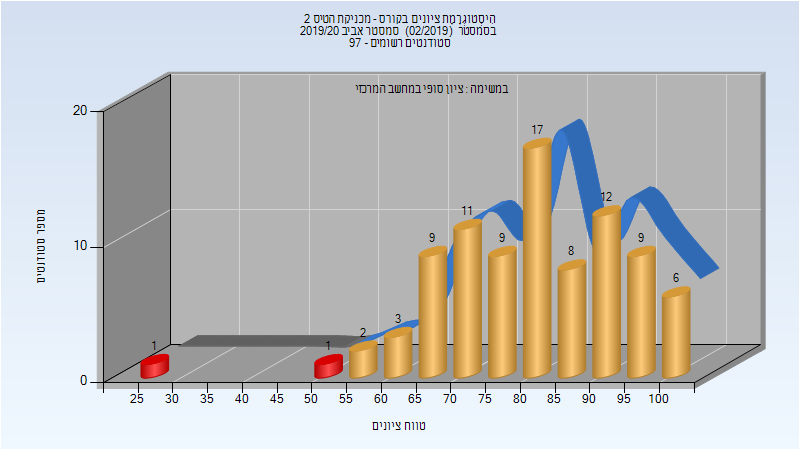
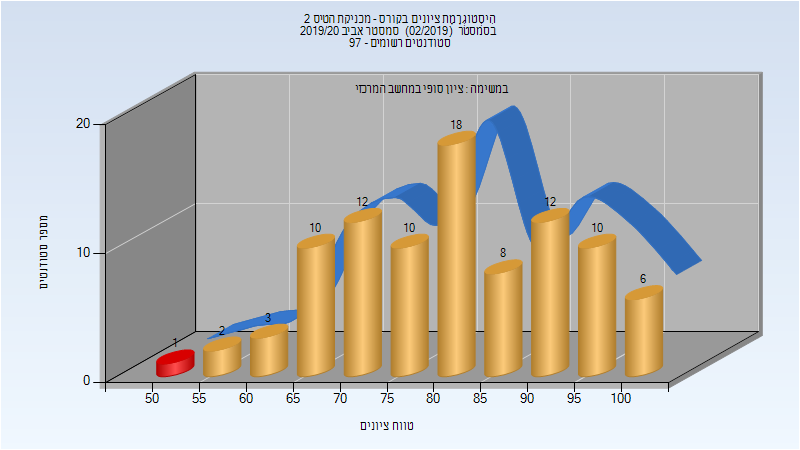
Deploy michael-maltsev/technion-histograms to github.com/michael-maltsev/technion-histograms.git:gh-pages

diff --git a/324955/index.html b/324955/index.html
@@ -397,7 +397,7 @@
 <td>מרצה - אחראי מקצוע</td>
 </tr>
 <tr>
-<td>איסמן ליסה</td>
+<td>בורנשטיין יעל</td>
 <td>סגל מנהלי - עם הרשאות מרצה אחראי</td>
 </tr>
 <tr>
@@ -405,11 +405,11 @@
 <td>סגל מנהלי - עם הרשאות מרצה אחראי</td>
 </tr>
 <tr>
-<td>בן ענת רוחמה</td>
+<td>איסמן ליסה</td>
 <td>סגל מנהלי - עם הרשאות מרצה אחראי</td>
 </tr>
 <tr>
-<td>בורנשטיין יעל</td>
+<td>בן ענת רוחמה</td>
 <td>סגל מנהלי - עם הרשאות מרצה אחראי</td>
 </tr>
 </tbody>

diff --git a/046241/index.html b/046241/index.html
@@ -40,5 +40,31 @@
 </tr>
 </tbody>
 </table>
+<h3>סופי</h3>
+<p><img src="201902/Finals.png" alt="201902 Finals" /></p>
+<table>
+<thead>
+<tr>
+<th>סטודנטים</th>
+<th>עברו/נכשלו</th>
+<th>אחוז עוברים</th>
+<th>ציון מינימלי</th>
+<th>ציון מקסימלי</th>
+<th>ממוצע</th>
+<th>חציון</th>
+</tr>
+</thead>
+<tbody>
+<tr>
+<td>10</td>
+<td>10/0</td>
+<td>100</td>
+<td>72</td>
+<td>99</td>
+<td>86.3</td>
+<td>84.5</td>
+</tr>
+</tbody>
+</table>
   </body>
 </html>

diff --git a/084154/index.html b/084154/index.html
@@ -398,15 +398,7 @@
 <td>מרצה - אחראי מקצוע</td>
 </tr>
 <tr>
-<td>קליין גריגורי</td>
-<td></td>
-</tr>
-<tr>
 <td>אייזן נחום אל</td>
-<td></td>
-</tr>
-<tr>
-<td>אשל רן</td>
 <td></td>
 </tr>
 <tr>
@@ -415,6 +407,14 @@
 </tr>
 <tr>
 <td>זמיר אינה</td>
+<td></td>
+</tr>
+<tr>
+<td>אשל רן</td>
+<td></td>
+</tr>
+<tr>
+<td>קליין גריגורי</td>
 <td></td>
 </tr>
 </tbody>

diff --git a/084312/index.html b/084312/index.html
@@ -415,11 +415,11 @@
 <td>מרצה - אחראי מקצוע</td>
 </tr>
 <tr>
-<td>סאסי גיא</td>
+<td>וינרב עמית</td>
 <td>מתרגל - עם הרשאות מרצה אחראי</td>
 </tr>
 <tr>
-<td>וינרב עמית</td>
+<td>סאסי גיא</td>
 <td>מתרגל - עם הרשאות מרצה אחראי</td>
 </tr>
 </tbody>

diff --git a/084221/index.html b/084221/index.html
@@ -533,12 +533,12 @@
 </thead>
 <tbody>
 <tr>
-<td>88</td>
-<td>86/2</td>
-<td>98</td>
-<td>29</td>
+<td>92</td>
+<td>91/1</td>
+<td>99</td>
+<td>53</td>
 <td>100</td>
-<td>81.091</td>
+<td>81.533</td>
 <td>82</td>
 </tr>
 </tbody>

diff --git a/324955/README.md b/324955/README.md
@@ -121,10 +121,10 @@
 | איש סגל | תפקיד |
 | ---- | ---- |
 | תורג'מן אסף | מרצה - אחראי מקצוע |
-| איסמן ליסה | סגל מנהלי - עם הרשאות מרצה אחראי |
-| הראל אילנה | סגל מנהלי - עם הרשאות מרצה אחראי |
-| בן ענת רוחמה | סגל מנהלי - עם הרשאות מרצה אחראי |
 | בורנשטיין יעל | סגל מנהלי - עם הרשאות מרצה אחראי |
+| הראל אילנה | סגל מנהלי - עם הרשאות מרצה אחראי |
+| איסמן ליסה | סגל מנהלי - עם הרשאות מרצה אחראי |
+| בן ענת רוחמה | סגל מנהלי - עם הרשאות מרצה אחראי |
 
 ### סופי מועד א'
 

diff --git a/046241/README.md b/046241/README.md
@@ -7,3 +7,11 @@
 | בוקס איל | מרצה - אחראי מקצוע |
 | חזנוב סרגיי | מתרגל - עם הרשאות מרצה אחראי |
 
+### סופי
+
+![201902 Finals](201902/Finals.png)
+
+| סטודנטים | עברו/נכשלו | אחוז עוברים | ציון מינימלי | ציון מקסימלי | ממוצע | חציון |
+| ---- | ---- | ---- | ---- | ---- | ---- | ---- |
+| 10 | 10/0 | 100 | 72 | 99 | 86.3 | 84.5 |
+

diff --git a/084312/README.md b/084312/README.md
@@ -127,8 +127,8 @@
 | איש סגל | תפקיד |
 | ---- | ---- |
 | יוסילבסקי גיל | מרצה - אחראי מקצוע |
-| סאסי גיא | מתרגל - עם הרשאות מרצה אחראי |
 | וינרב עמית | מתרגל - עם הרשאות מרצה אחראי |
+| סאסי גיא | מתרגל - עם הרשאות מרצה אחראי |
 
 ### מבחן מועד א'
 

diff --git a/084154/README.md b/084154/README.md
@@ -122,11 +122,11 @@
 | איש סגל | תפקיד |
 | ---- | ---- |
 | כהן יעקב | מרצה - אחראי מקצוע |
-| קליין גריגורי |  |
 | אייזן נחום אל |  |
-| אשל רן |  |
 | שטיינר מתן |  |
 | זמיר אינה |  |
+| אשל רן |  |
+| קליין גריגורי |  |
 
 ### סופי מועד א'
 

diff --git a/084221/README.md b/084221/README.md
@@ -163,5 +163,5 @@
 
 | סטודנטים | עברו/נכשלו | אחוז עוברים | ציון מינימלי | ציון מקסימלי | ממוצע | חציון |
 | ---- | ---- | ---- | ---- | ---- | ---- | ---- |
-| 88 | 86/2 | 98 | 29 | 100 | 81.091 | 82 |
+| 92 | 91/1 | 99 | 53 | 100 | 81.533 | 82 |
 
